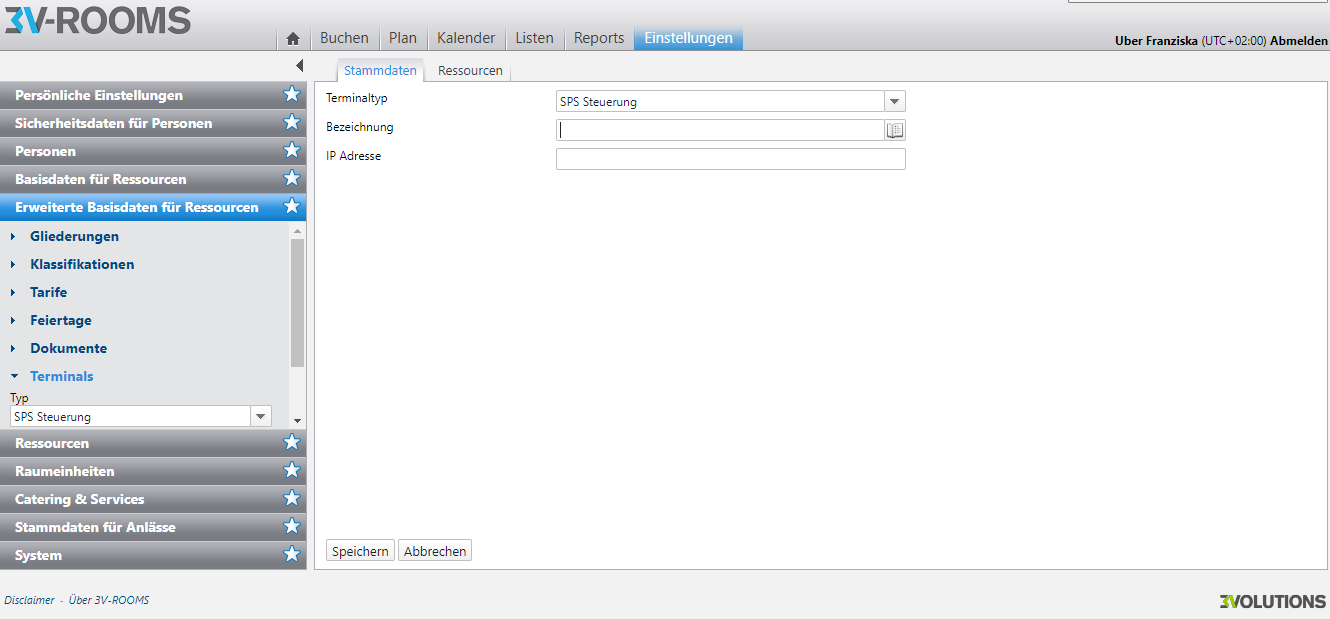
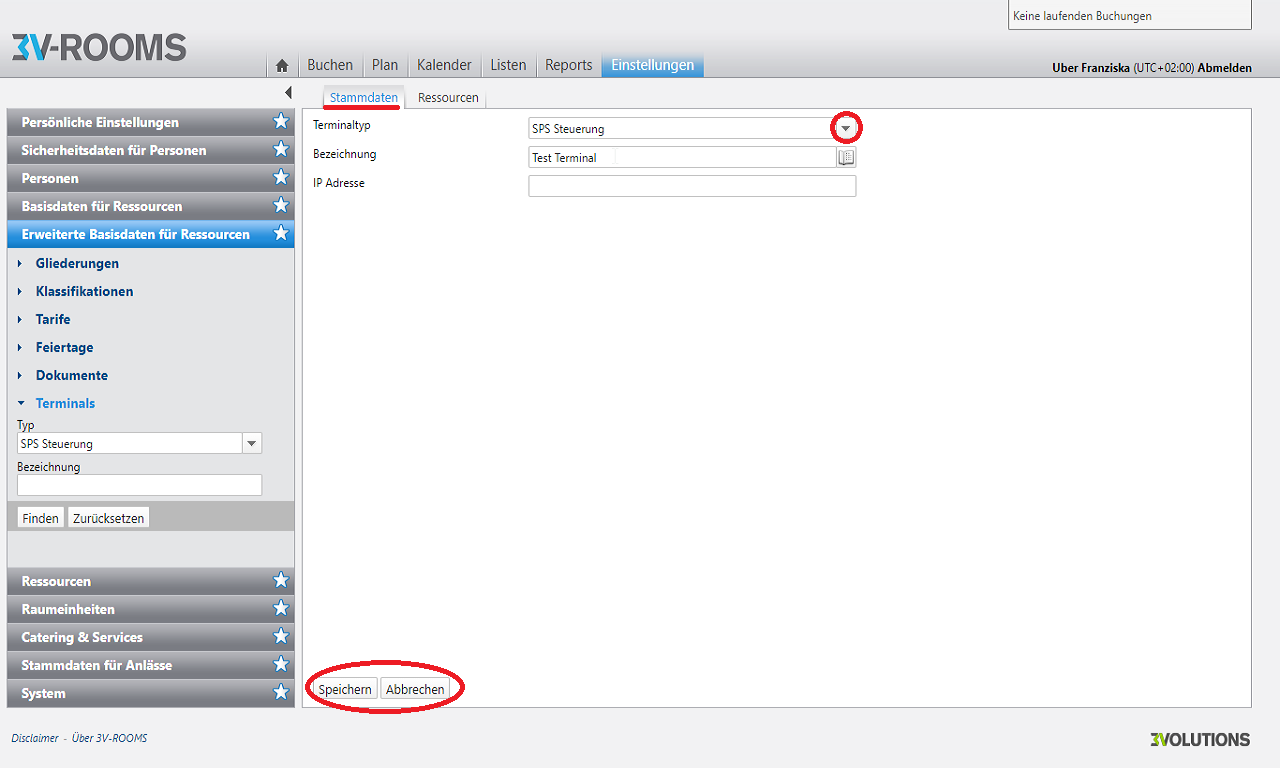
Feiertage, Dokumente und Terminals Screenshots geändert und Inhalte überarbeitet, mit UC abgeglichen

diff --git a/content/de/Einstellungen/ErweiterteBasisdatenfuerRessourcen/Feiertage/_index.md b/content/de/Einstellungen/ErweiterteBasisdatenfuerRessourcen/Feiertage/_index.md
@@ -8,30 +8,106 @@ description: >
 
 
 ---
-# Feiertage erstellen und bearbeiten
-Zum Erstellen und Bearbeiten der Feiertage haben Sie zwei Möglichkeiten.
-1. Sie klicken auf den untenstehenden Button "Erstellen" (Abbildung f). In dem sich öffnendem Feld wählen Sie die Bezeichnung des Feiertags und legen den Beginn und das Ende des Tages fest (Abbildung fi, Abbildung fx)
+## Ansicht: Feiertage
+Im linken Sidepanel finden Sie die Filterkriterien, mit denen Sie nach einem Feiertag suchen können. Hierbie können Sie nach der Bezeichnung eines Feiertags suchen. 
 
-2. Zum Bearbeiten eines schon bestehenden Feiertags, klicken Sie auf das Stift Icon neben dem jeweiligen Feiertag in der Liste (Abbildung f).
+Im rechten Feld sehen Sie die Feiertagsliste. Mittel Scroll Down finden Sie in alphabetischer Reihenfolge alle eingespeicherten Feiertage. (Abbildung f)
 
-Speichern Sie die jeweiligen Änderungen über den untenstehenden Button "Speichern" (Abbildung fi).
+Aktivieren Sie die Checkbox neben einem Listenelement, wählen Sie dieses aus und können es löschen.
 
-{{< imgproc Feiertage_bearbeiten_suchen Resize "1280x" >}}
-Abbildung f: Feiertage erstellen, bearbeiten und durchsuchen
+{{< imgproc Feiertage_Ansicht Resize "1280x" >}}
+Abbildung f: Ansicht der Feiertage in der Feiertagsliste
 {{< /imgproc >}}
+
+Speichern Sie alle Ihre gewünschten Änderungen über den Button "Speichern". Haben Sie einen Feiertag bearbeitet oder neu erstellt, aktualisiert sich die Feiertagsliste automatisch.
+
+### Daten einsehen
+Klicken Sie auf den Namen eines Feiertags in der Liste, können Sie die gespeicherten Stammdaten und die Historie des Feiertags einsehen. (Abbildung fa)
+
+{{< imgproc Feiertage_Daten_einsehen Resize "1280x" >}}
+Abbildung fa: Stammdaten und Historie der Feiertage ansehen
+{{< /imgproc >}}
+
+## Feiertage bearbeiten
+Zum Bearbeiten schon bestehenden Feiertags klicken Sie auf das Stift Icon neben dem jeweiligen Feiertag in der Liste (Abbildung f).
+
+Es öffnet sich ein neues Fenster. In diesem bearbeiten Sie die Bezeichnung des Feiertags (Abbildung fi).
 
 {{< imgproc Feiertag_Feier Resize "1280x" >}}
-Abbildung fi: Bezeichnung des neuen Feiertags festlegen
+Abbildung fi: Bezeichnung des Feiertags festlegen oder ändern
 {{< /imgproc >}}
+
+Im nächsten Reiter "Feiertag" legen Sie den Beginn und das Ende des Feiertags fest. Sie sehen eine Liste mit schon eingetragenen Daten für die nächsten Jahre (Abbildung fx). Möchten Sie diese Daten löschen, aktivieren Sie die Checkbox neben dem Datum und klicken Sie auf den untenstehenden Button "Entfernen". 
+
+Wollen Sie ein weiteres Datum hinzufügen, klicken Sie auf den Button "Hinzufügen". Es öffnet sich ein neues Feld in welchem Sie die Daten auswählen (Abbildung fd).
 
 {{< imgproc Feiertage_Beginn_Ende Resize "1280x" >}}
 Abbildung fx: Den Beginn und das Ende des Feiertags festlegen
 {{< /imgproc >}}
 
-### Feiertage durchsuchen 
-Im linken Menü finden Sie unter der Kategorie "Feiertage" eine Suchfunktion mit deren Hilfe Sie nach einem Feiertag suchen können (Abbildung f). Sie können hierbei nach folgenden Kriterien suchen:
+Speichern Sie die jeweiligen Änderungen über den untenstehenden Button "Speichern". Die Liste aktualisiert sich automatisch und Sie gelangen wieder zur Startübersicht.
 
-* Bezeichnung
+## Feiertag erstellen
+Um einen neuen Feiertag zu erstellen oder hinzuzufügen, klicken Sie auf den untenstehenden Button "Erstellen" (Abbildung f). In dem sich öffnendem Feld wählen Sie die Bezeichnung des Feiertags und legen den Beginn und das Ende des Tages fest.
+
+{{< imgproc Feiertag_erstellen_Feier Resize "1280x" >}}
+Abbildung fb: Einen neuen Feiertag erstellen und Bezeichnung festlegen
+{{< /imgproc >}}
+
+Im nächsten Reiter finden Sie eine noch leere Liste mit Beginn und End Daten des Feiertags. Über den Button "Hinzufügen" fügen Sie neue Daten hinzu. Es öffnet sich dazu das Fenster aus Abbildung fd. 
+
+{{< imgproc Feiertag_erstellen_Beginn_Ende Resize "1280x" >}}
+Abbildung fc: Den Beginn und das Ende eines Feiertags hinzufügen
+{{< /imgproc >}}
+
+Speichern Sie Ihre Eingabe über den untenstehenden Button "speichern".
+
+{{< imgproc Feiertage_Beginn_Ende_speichern Resize "1280x" >}}
+Abbildung fd: Das Datum und die Zeit des Feiertags wählen und hinzufügen
+{{< /imgproc >}}
+
+Folgende Daten legen Sie fest:
+* Datumpicker: Standardwert des heutigen Datums
+
+* Zeitselektor: Von: Standardwert: 00:00, Bis: Standardwert: 23:59. Diese Start- und Endzeiten entsprechen einem Tag.
+
+Die Liste aktualisiert sich automatisch und Sie sehen Ihren neu angelegten Feiertag in der Liste. (Abbildung fg)
+
+{{< imgproc Feiertag_neu_in_Liste Resize "1280x" >}}
+Abbildung fg: Der neue Feiertag in der Feiertagsliste
+{{< /imgproc >}}
+
+## Feiertage Importieren
+Sie können Daten zu Feiertagen direkt aus Ihrem System importieren. Klicken SIe dazu aim View Modus auf den untenstehenden Button "Importieren". 
+
+Das entsprechende File mit den Feiertagen muss mittels Browser-Control ausgewählt werden und die Datei muss über eine gültige Formatierung aufweisen (Siehe Datei Format).
+
+{{< imgproc Feiertage_Importieren Resize "1280x" >}}
+Abbildung fe: Feiertage aus einer Datei importieren
+{{< /imgproc >}}
+
+### Sprache der importierten Datei
+* Die Dropdown-Sprache beinhaltet die entsprechenden Sprachen, wovon die Benutzersprache vordefiniert ist
+Upload
+
+* Nach Klick auf Upload werden die Feiertage als Liste zur Vorschau angezeigt (siehe Abbildung). Gespeichert werden diese erst, wenn der „Speichern“ geklickt wird
+
+### Datei Format der importierten Datei
+Da das zu importierende File jeweils nur eine Sprache beinhaltet, wird beim ersten Import (wenn noch keine Feiertage im ROOMS bestehen) die Bezeichnung für jede verfügbare Sprache (im ROOMS PRO) in der Sprache des importierten Files übernommen (z.B. in Deutsch).
+
+Sie können nun nach und nach die Files in den anderen Sprachen importieren. Sollte beim erneuten Import z.B. mit einem Englischen-File ein weiterer Feiertag hinzugekommen sein, wird dieser für sämtliche ROOMS PRO-Sprache wieder in Englisch dargestellt.
+
+Unterstützt werden die Dateien TXT und CSV werden (mittels Delimiter Untertrennung).
+
+Es reichen die Angaben Zeit, und Bezeichnung - eine Überschriftszeile darf nicht vorhanden sein (siehe Abbildung)
+Die Delimiter Komma (,) und (Semikolon) ( ; ) werden unterstützt.
+
+Das Datum soll mindestens in den Formaten „12.04.2008“, „2008/04/12“ und „2008-04-12“ unterstützt werden.
+Es spielt keine Rolle, ob das Datum und die Bezeichnung in Hochkommas abgespeichert sind oder nicht (Beispiel:
+2008/12/25;Weihnachten ODER „2008/12/25“;“Weihnachten“).
+
+Als Hauptreferenz für den Import gilt http://www.feiertagskalender.ch/ (siehe Abbildung).
+Die Datei ist ROOMS Komfort anzupassen (erste Spalte = Datum, zweite Spalte = Feiertag Bezeichnung, etc.)
 
 
 

diff --git a/content/de/Einstellungen/ErweiterteBasisdatenfuerRessourcen/Terminals/_index.md b/content/de/Einstellungen/ErweiterteBasisdatenfuerRessourcen/Terminals/_index.md
@@ -3,43 +3,65 @@ title: "Terminals"
 linkTitle: "Terminals"
 weight: 6
 description: >
-  Im Bereich Terminals legen Sie Terminallisten fest. Die einzelnen Terminals können Sie neu hinzufügen oder ändern.    
+  Im Bereich Terminals legen Sie Terminallisten fest. Die einzelnen Terminals können Sie neu hinzufügen oder ändern. 
+  Terminaltypen müssen vorgängig implementiert werden. Aktuell implementierte Typen: SPS Steuerung  
  
 
 ---
+## Ansicht: Terminals 
+Im linken Sidepanel finden Sie unter der Kategorie "Tarife" eine Suchfunktion mit dessen Hilfe Sie nach einem Tarif suchen können (Abbildung t). Sie können hierbei nach folgenden Kriterien suchen: 
+* Bezeichnung
+* Typ
+
+Im rechten Feld sehen Sie die Terminalliste. Sollten keine Terminals gespeichert sein ist diese Liste leer. 
+
+{{< imgproc Terminals_Ansicht Resize "1280x" >}}
+Abbildung t: Start Ansicht der Terminalliste
+{{< /imgproc >}}
+
+Aktivieren Sie die Checkbox neben dem Listenelement, um einen Terminal aus der Liste zu entfernen. Dazu klicken Sie auf den untenstehenden Button "Entfernen". 
+
+### Daten einsehen
+Sie können die gespeicherten Daten der Listenelemente über Klick auf den Namen des Listenelements einsehen. 
+
+## Terminals bearbeiten
+Klicken Sie auf das Sift Icon neben einem Listenelement, können Sie die Stammdaten und die Ressourcen eines Terminals bearbeiten.
+
 ## Terminal hinzufügen
-Terminals erstellen Sie über den untenstehenden Button "Hinzufügen" (Abbildung h). In dem Feld, welches sich öffnet legen Sie die Stammdaten sowie die Ressourcen für die jeweiliege Tarifkategorie fest (Abbildung hi).
+Terminals erstellen Sie über den untenstehenden Button "Hinzufügen". In dem Feld, welches sich öffnet legen Sie die Stammdaten sowie die Ressourcen für die jeweiliege Tarifkategorie fest (Abbildung hi).
 
 Die geänderten oder neu eingetragenen Daten speichern Sie über den untenstehenden Button "Speichern" (Abbildung hi).
 
-
-{{< imgproc Terminals_hinzufügen Resize "1280x" >}}
-Abbildung h: Hinzufügen von Terminals
+{{< imgproc Terminals_neu_hinzufügen Resize "1280x" >}}
+Abbildung hi: Stammdaten der Terminals bearbeiten und speichern
 {{< /imgproc >}}
-
 
 ### Stammdaten der Terminals bearbeiten
 Die folgenden Daten legen Sie bei den Stammdaten der Terminals fest:
 
 | Feld         | Funktion         | 
 | ------------- |-------------  | 
-| Terminaltyp        | Über das "drop-down" Menü den Terminaltyp (Bsp.: SPS Steuerung) festlegen| 
+| Terminaltyp        | Über das "drop-down" Menü den Terminaltyp (Bsp.: SPS Steuerung) festlegen. Selektion eines implementierten Terminaltyps.| 
 | Bezeichnung   | Die Bezeichnung des Terminals festlegen   |  
-| IP Adresse | IP Adresse angeben   |  
+| IP Adresse | IP Adresse angeben. Validierung auf IP Adresse.  |  
 
-{{< imgproc Terminals_neu_hinzufügen Resize "1280x" >}}
-Abbildung hi: Stammdaten der Terminals bearbeiten und speichern
-{{< /imgproc >}}
+
 
 ### Ressourcen bearbeiten
-Die entsprechenden Ressorcen für den Terminal fügen Sie über den untenstehenden Button "Hinzufügen" zu(Abbildung hv). Sie wählen hier aus Ihren festgelegten Ressourcen aus. 
+Im Reiter Ressourcen fügen Sie die entsprechenden Ressorcen für den Terminal hinzu (Abbildung hv). Sollten noch keine Ressourcen ausgewählt sein, klicken Sie auf den untenstehenden Button "Hinzufügen".
 
 {{< imgproc Terminals_Ressourcen Resize "1280x" >}}
 Abbildung hv: Ressourcen der Terminals festlegen
 {{< /imgproc >}}
 
-## Terminals durchsuchen
-Im linken Menü finden Sie unter der Kategorie "Tarife" eine Suchfunktion mit dessen Hilfe Sie nach einem Tarif suchen können (Abbildung t). Sie können hierbei nach folgenden Kriterien suchen: 
-* Bezeichnung
-* Typ
+Es öffnet sich ein Feld, in welchem Sie eine oder mehrere Ressourcen über das Aktivieren der Checkbox auswählen können. Speichern Sie Ihre Auswahl über den Button "Speichern".
 
+{{< imgproc Terminals_Ressourcen_hinzufügen Resize "1280x" >}}
+Abbildung hx: Ressourcen aus der Liste hinzufügen
+{{< /imgproc >}}
+
+Die Liste aktualisiert sich automatisch und Sie sehen Ihre ausgewählten Ressourcen in der Übersicht.
+
+{{< imgproc Terminals_Ressourcen_in_Liste Resize "1280x" >}}
+Abbildung hz: Hinzugefügte Ressourcen in der Liste 
+{{< /imgproc >}}

diff --git a/content/de/Einstellungen/ErweiterteBasisdatenfuerRessourcen/Dokumente/_index.md b/content/de/Einstellungen/ErweiterteBasisdatenfuerRessourcen/Dokumente/_index.md
@@ -8,6 +8,17 @@ description: >
 
 
 ---
+## Ansicht Dokumente
+Im rechten Feld sehen Sie die Liste der gespeicherten Vorlagen. Wenn keine gespeichert wurden ist die Liste leer.
+
+Im linken Menü finden Sie unter der Kategorie "Dokumente" eine Suchfunktion mit deren Hilfe Sie nach einem Dokument suchen können (Abbildung d). Sie können hierbei nach folgenden Kriterien suchen: 
+
+* Bezeichnung
+
+{{< imgproc Dokumente_erstellen Resize "1280x" >}}
+Abbildung d: Dokument erstellen und suchen
+{{< /imgproc >}}
+
 ## Dokumente erstellen
 Die Dokumente erstellen Sie indem Sie auf den untenstehenden Button "Erstellen" klicken (Abbildung d). In dem sich öffnendem Feld legen Sie eine Vorlage fest. 
 In der Vorlage ändern Sie die folgenden Daten: 
@@ -21,30 +32,27 @@ In der Vorlage ändern Sie die folgenden Daten:
 Außerdem wählen Sie ein Dokument mit der maximalen Dateigröße 5MB aus. Die geänderten oder neu eingetragenen Daten speichern Sie über den untenstehenden Button "Speichern" (Abbildung di).
 
 
-{{< imgproc Dokumente_erstellen Resize "1280x" >}}
-Abbildung d: Dokument erstellen und suchen
-{{< /imgproc >}}
-
 {{< imgproc Dokumente_neu_eintragen Resize "1280x" >}}
 Abbildung di: Neues Dokument eintragen 
 {{< /imgproc >}}
 
-### Dokumente suchen 
-Im linken Menü finden Sie unter der Kategorie "Dokumente" eine Suchfunktion mit deren Hilfe Sie nach einem Dokument suchen können (Abbildung d). Sie können hierbei nach folgenden Kriterien suchen: 
+Wenn Sie ein Dokument auswählen, öffner sich Ihr Explorer und Sie können die gewünschte Datei hochladen. (Abbildung dy).
 
-* Bezeichnung
+{{< imgproc Dokumente_Upload_Test Resize "1280x" >}}
+Abbildung dy: Vorlage hochladen 
+{{< /imgproc >}}
 
-#### Daten der Dokumentenvorlage bearbeiten
+### Daten der Dokumentenvorlage bearbeiten
 | Feld         | Funktion         | 
 | ------------- |-------------  | 
-| Bezeichnung          | Die Bezeichnung des Dokuments festlegen | 
+| Bezeichnung          | Die Bezeichnung des Dokuments festlegen. Die Bezeichnung wird in der Benutzersprache des angemeldeten Benutzers geladen. Die Vorlage muss in allen verfügbaren Sprachen bezeichnet werden | 
 | Sprache   | Die Sprache über "drop-down" auswählen     |  
-| Typ  | Dokumententyp über  "drop-down" auswählen oder selber festlegen    |  
-| Export-Format   |  Dateiformat für den Export des Dokuments festlegen mittels "drop-down"    |  
-| Selektion für Download    | Selektion für den Download festlegen mittels "drop-down"   |  
-| Selektion für Mail   |   Selektion für die Mail mittels "drop-down" festlegen (Keine, Vorselektiert, Pflicht)  |  
+| Typ  | Dokumententyp über  "drop-down" auswählen oder selber festlegen. Ein Datenschema muss gewählt werden. Die verfügbaren Typen werden durch die Entwicklung erstellt, implementiert und zur Verfügung gestellt. |  
+| Export-Format   |  Dateiformat für den Export des Dokuments festlegen mittels "drop-down". Keine => Checkbox im Reservationsprozess ist nicht selektiert. Vorselektiert => Checkbox im Reservationsprozess ist vorselektiert Pflicht => Checkbox im Reservationsprozess ist vorselektiert und nicht änderbar.  |  
+| Selektion für Download | Selektion für den Download festlegen mittels "drop-down". Download steht immer zur Verfügung.   |  
+| Selektion für Mail   |   Selektion für die Mail mittels "drop-down" festlegen (Keine, Vorselektiert, Pflicht). Keine => Checkbox im Reservationsprozess ist nicht selektiert. Vorselektiert => Checkbox im Reservationsprozess ist vorselektiert Pflicht => Checkbox im Reservationsprozess ist vorselektiert und nicht änderbar. Download steht immer zur Verfügung.  |  
 | Publizieren in     |   Auswahl in welchen Medien das Dokuemnt publiziert werden soll ( Alle, Reports, Reservation-Summary, Anlass)   |  
-| Vorlage   | Festlegen    |  
+| Vorlage   | Eine Vorlage kann selektiert (Browse) werden und mittels Upload auf den Server geladen werden. Nur Word Dokumente zulässig (*.docx)   |  
 
 
 
